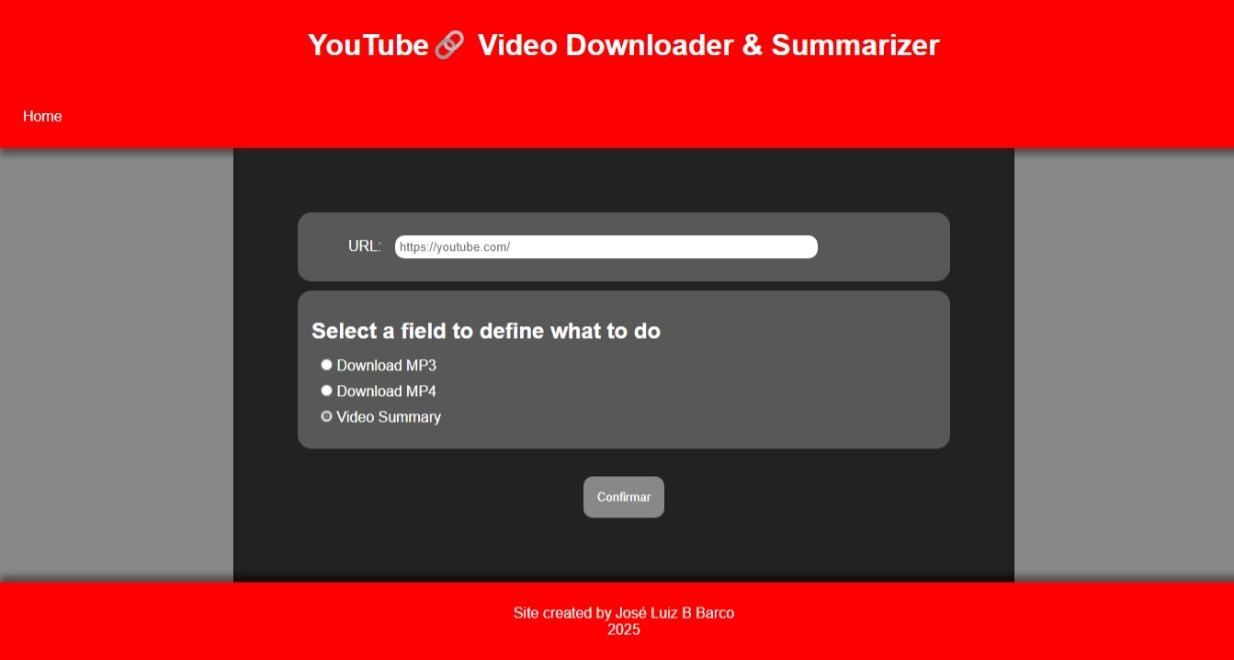
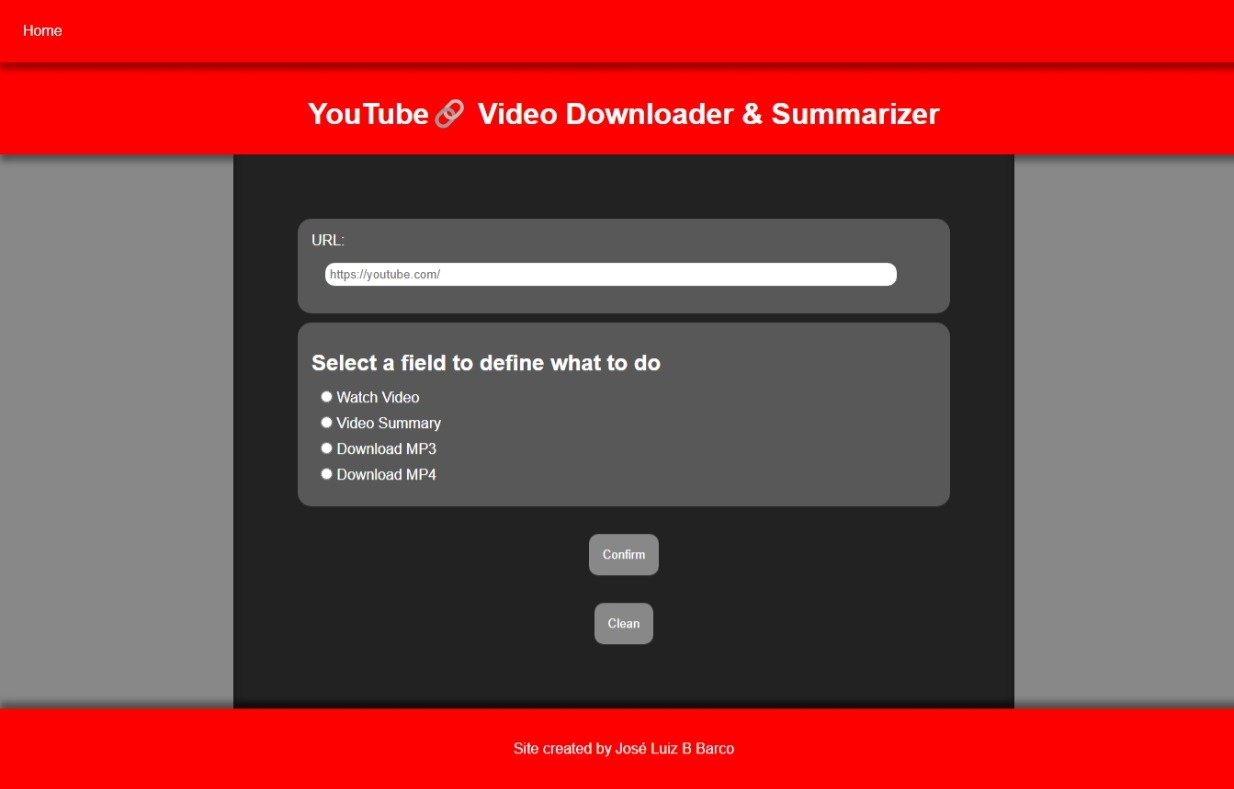
v1

diff --git a/index.html b/index.html
@@ -14,52 +14,65 @@
         <a href="https://jlbbarco.github.io/" class="interno">Home</a>
     </nav>
     <main>
-        <section>
-            <form method="get" id="preferencia">
-                <div class="container">
-                    <label for="url">URL: </label>
-                    <input type="url" name="video" id="video" placeholder="https://youtube.com/" class="url">
-                    <div id="tumb" class="thumb"></div>
-                </div>
-                <div class="container">
-                    <h2>Selecione um campo para definir o que fazer</h2>
-                    <div>
-                        <input type="radio" name="select" id="resume" checked>
-                        <label for="resume">Resumo do vídeo <br>
-                            <div class="change">
-                                <div class="msg"></div>
-                                <input type="button" value="Download .txt" class="submit">
-                                <section id="txt" class="txt">
-                                    <div id="barra" class="barra"></div>
-                                    <div id="porcent" class="porcent"></div>
-                                </section>
+        <form method="get" id="preferencia">
+            <div class="container">
+                <label for="url">URL: </label>
+                <input type="url" name="video" id="video" placeholder="https://youtube.com/" class="url">
+            </div>
+            <div class="container">
+                <h2>Selecione um campo para definir o que fazer</h2>
+                <div>
+                    <input type="radio" name="select" id="assistir" value="assistir">
+                        <label for="assistir">Assistir vídeo <br>
+                            <div id="change1" class="change">
+                                <iframe width="560" height="315" src="" title="YouTube video player" frameborder="0" allow="accelerometer; autoplay; clipboard-write; encrypted-media; gyroscope; picture-in-picture; web-share" referrerpolicy="strict-origin-when-cross-origin" allowfullscreen id="youtube_video" class="youtube_video"></iframe>
                             </div>
                         </label>
-                    </div>
-                    <div>
-                        <input type="radio" name="select" id="mp3">
-                        <label for="mp3">Download MP3 <br>
-                            <div class="change" id="change_mp3">
-                                <div id="barra" class="barra"></div>
-                                <div id="porcent" class="porcent"></div>
-                            </div>
-                        </label>
-                    </div>
-                    <div>
-                        <input type="radio" name="select" id="mp4">
-                        <label for="mp4">Download MP4 <br>
-                            <div class="change" id="change_mp4">
-                                <div id="barra" class="barra"></div>
-                                <div id="porcent" class="porcent"></div>
-                            </div>
-                        </label>
-                    </div>
+                    </input>
                 </div>
-                <div class="button">
-                    <input type="submit" value="Confirmar" class="submit">
+                <div>
+                    <input type="radio" name="select" id="resume" value="resume">
+                    <label for="resume">Resumo do vídeo <br>
+                        <div id="change2" class="change">
+                            <div class="msg"></div>
+                            <input type="button" value="Download .txt" class="submit" id="txtdownload">
+                            <section id="txt" class="txt">
+                                <div class="barra">
+                                    <div id="carregado2" class="carregado"></div>
+                                </div>
+                                <div id="percent2" class="percent"></div>
+                            </section>
+                        </div>
+                    </label>
                 </div>
-            </form>
-        </section>
+                <div>
+                    <input type="radio" name="select" id="mp3" value="mp3">
+                    <label for="mp3">Download MP3 <br>
+                        <div id="change3" class="change">
+                            <div class="barra">
+                                <div id="carregado3" class="carregado"></div>
+                            </div>
+                            <div id="percent3" class="percent"></div>
+                        </div>
+                    </label>
+                </div>
+                <div>
+                    <input type="radio" name="select" id="mp4" value="mp4">
+                    <label for="mp4">Download MP4 <br>
+                        <div id="change4" class="change">
+                            <div class="barra">
+                                <div id="carregado4" class="carregado"></div>
+                            </div>
+                            <div id="percent4" class="percent3"></div>
+                        </div>
+                    </label>
+                </div>
+            </div>
+            <div class="button">
+                <input type="submit" value="Confirmar" class="submit">
+                <input type="reset" value="Limpar" id="reset" class="submit">
+            </div>
+        </form>
     </main>
     <footer>
         <div class="referencia">

diff --git a/js/script.js b/js/script.js
@@ -1,24 +1,62 @@
-// Bibliotecas
-
 // Tags Importadas
-let preferencia = document.querySelector('form#preferencia');
+let opção = document.querySelector('form#preferencia');
 let url = document.getElementById('url');
-let change_mp3 = document.querySelector('div#change_mp3');
-let change_mp4 = document.querySelector('div#change_mp4');
+let change1 = document.querySelector("div#change1");
+let change2 = document.querySelector('div#change2');
+let change3 = document.querySelector('div#change3');
+let change4 = document.querySelector('div#change4');
+let resume = document.querySelector("input#resume");
+let carregado = '';
+let percent = '';
 
 // Comandos
-// Barra de progressão
+change1.style.display = "none";
+change2.style.display = "none";
+change3.style.display = "none";
+change4.style.display = "none";
+
+// Config Padrão
+let progresso = 0;
+let download = 0;
 
 // Funções
-preferencia.addEventListener("submit", function(event) {
+opção.addEventListener("submit", function(event) {
     event.preventDefault(); // Evita o comportamento padrão do formulário
 
     // Obtém a opção selecionada
-    const opcaoSelecionada = document.querySelector('input[name="select"]:checked');
+    let opçãoSelecionada = document.querySelector('input[name="select"]:checked');
+    let idOpção = opçãoSelecionada.value;
 
-    // Verifica se há uma opção selecionada e exibe o conteúdo relacionado
-    if (opcaoSelecionada) {
-    const idConteudo = opcaoSelecionada.value;
-    document.getElementById(idConteudo).style.display = "block";
-    }
+    // Verifica qual opção foi selecionada e executa o que cada uma deve fazer
+    if (idOpção == 'assistir') {
+        change1.style.display = "block";
+        let iframe = document.querySelector('iframe#video');
+    } else if (idOpção == 'resume') {
+        change2.style.display = 'block';
+        let txt = document.querySelector('section#txt'); // Chama a section#id txt que contém a barra de download do txt
+        txt.style.display = "none";
+        let txtdownload = document.querySelector("input#txtdownload");
+        txtdownload.addEventListener('click', function(event){
+            txt.style.display = "block";
+            carregado = document.querySelector("div#carregado1");
+            carregado.style.width = `${progresso}%`;
+            percent = document.querySelector('div#percent1')
+            percent.innerHTML = `${progresso}%`;
+        })
+    } else if (idOpção == 'mp3') {
+        change3.style.display = "block";
+        carregado = document.querySelector('div#carregado2');
+        percent = document.querySelector('div#percent2');
+        while (download == true) {
+            let mp3 = document.querySelector("input#mp3");
+        };
+    } else if (idOpção == 'mp4') {
+        change4.style.display = "block";
+        carregado = document.querySelector("div#carregado3");
+        percent = document.querySelector("div#percent3");
+    } else {
+        window.alert('Selecione um campo para continuar');
+    };
+    carregado.style.width = `${progresso}%`;
+    percent.innerHTML = `${progresso}%`;
 });

diff --git a/css/style.css b/css/style.css
@@ -6,6 +6,7 @@
     --cor_borda: #bbb;
     --cor_form: #8888;
     --cor_bc_hover: #9c0000;
+    --carregado: #00ff00;
     --cor1: #ff0000;
     --cor2: #222;
     --cor3: #888;
@@ -14,6 +15,7 @@
 
 /* Config geral */
 * {
+    color: lightgreen;
     margin: 0;
     padding: 0;
     font-family: Arial, Helvetica, sans-serif;
@@ -37,10 +39,6 @@ a.externo:after {
 
 a.externo:hover, a.interno:hover {
     text-decoration: underline;
-    background-color: var(--cor_bc_hover);
-    padding: 10px;
-    border: 1px solid var(--cor_borda);
-    border-radius: 10px;
 }
 
 /* Cabeçalho */
@@ -61,6 +59,13 @@ nav {
     box-shadow: 0px 7px 7px var(--sombra);
 }
 
+nav a:hover {
+    padding: 10px;
+    border: 2px solid var(--cor_borda);
+    border-radius: 10px;
+    background-color: var(--cor_bc_hover);
+}
+
 /* Conteúdo */
 main {
     padding: 50px;
@@ -75,27 +80,21 @@ h2 {
     text-align: justify;
 }
 
+form {
+    padding: 10px;
+}
+
 .url {
     margin: 15px;
     width: 90%;
     padding: 5px;
     border: none;
     border-radius: 10px;
-}
-
-form {
-    padding: 10px;
+    color: black;
 }
 
 .url:hover {
     border: 2px solid var(--cor_borda);
-}
-
-.thumb {
-    display: none;
-    margin: auto;
-    width: 90%;
-    height: 200px;
 }
 
 h2 {
@@ -106,14 +105,37 @@ form div {
     margin: 10px;
 }
 
-div.change {
-    display: none;
+#change1 {
+    position: relative;
+}
+
+iframe.youtube_video {
+    display: block;
+    margin: auto;
+    position: relative;
+    width: 100%;
+    height: 100%;
+    background-color: #fff;
 }
 
 div.barra {
     border-radius: 10px;
     width: 150px;
     height: 15px;
+    background-color: #fff;
+}
+
+div.carregado {
+    background-color: var(--carregado);
+    left: 0;
+    margin: 0;
+    border-radius: 10px;
+    height: 100%;
+}
+
+.percent {
+    width: 50px;
+    height: 1em;
 }
 
 .container {
@@ -125,9 +147,12 @@ div.barra {
 .msg {
     color: var(--cor_fonte);
     background-color: var(--cor3);
-    padding: 10px;
+    padding: 25px;
     border-radius: 10px;
     width: 90%;
+    margin: auto;
+    line-height: 1.5em;
+    text-align: justify;
 }
 
 .submit{
@@ -139,10 +164,13 @@ div.barra {
     color: var(--cor_fonte);
     background-color: var(--cor3);
     border: none;
+    transition: all;
+    transition-duration: .5s;
 }
 
 .submit:hover {
     border: 2px solid var(--cor_borda);
+    background-color: var(--cor2);
 }
 
 /* Rodapé */
